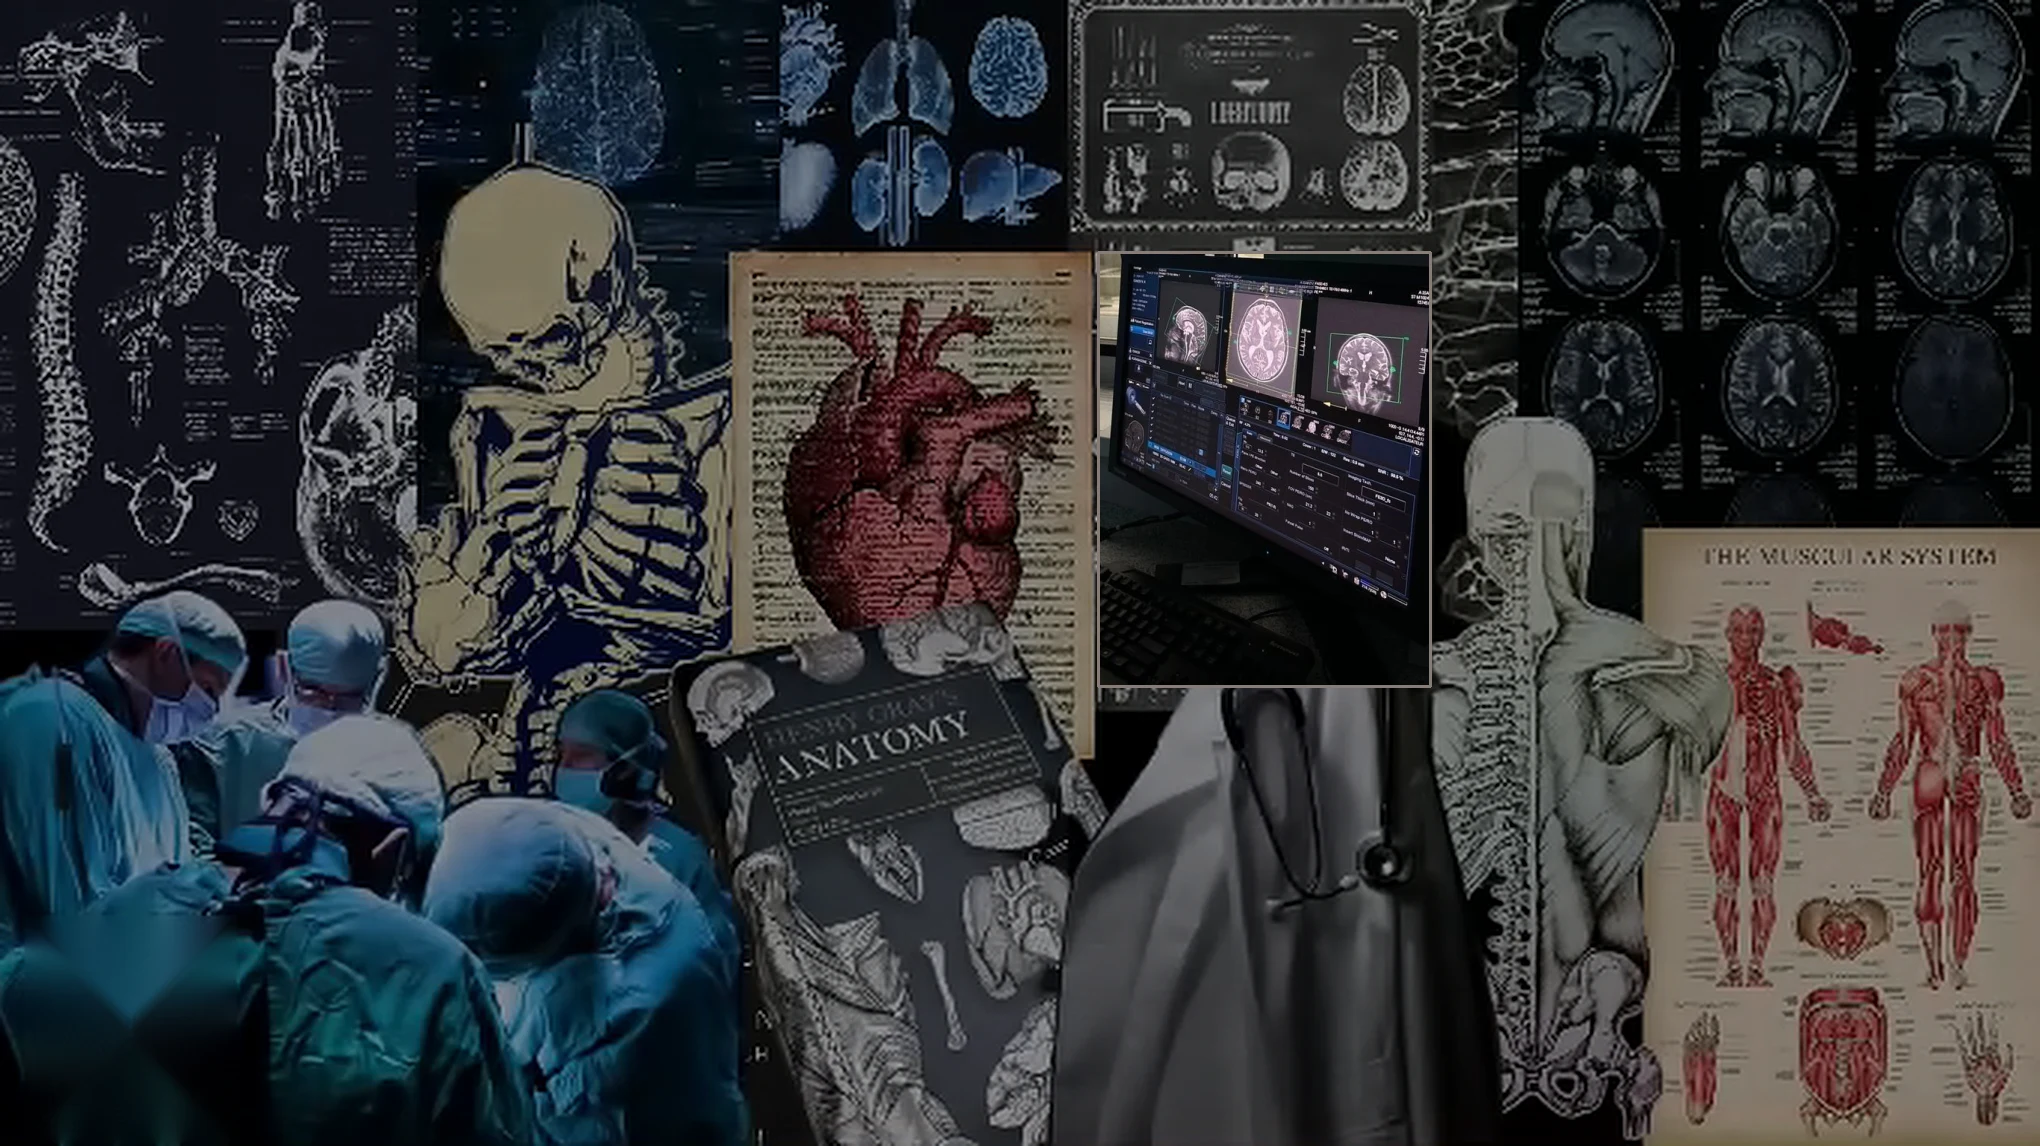
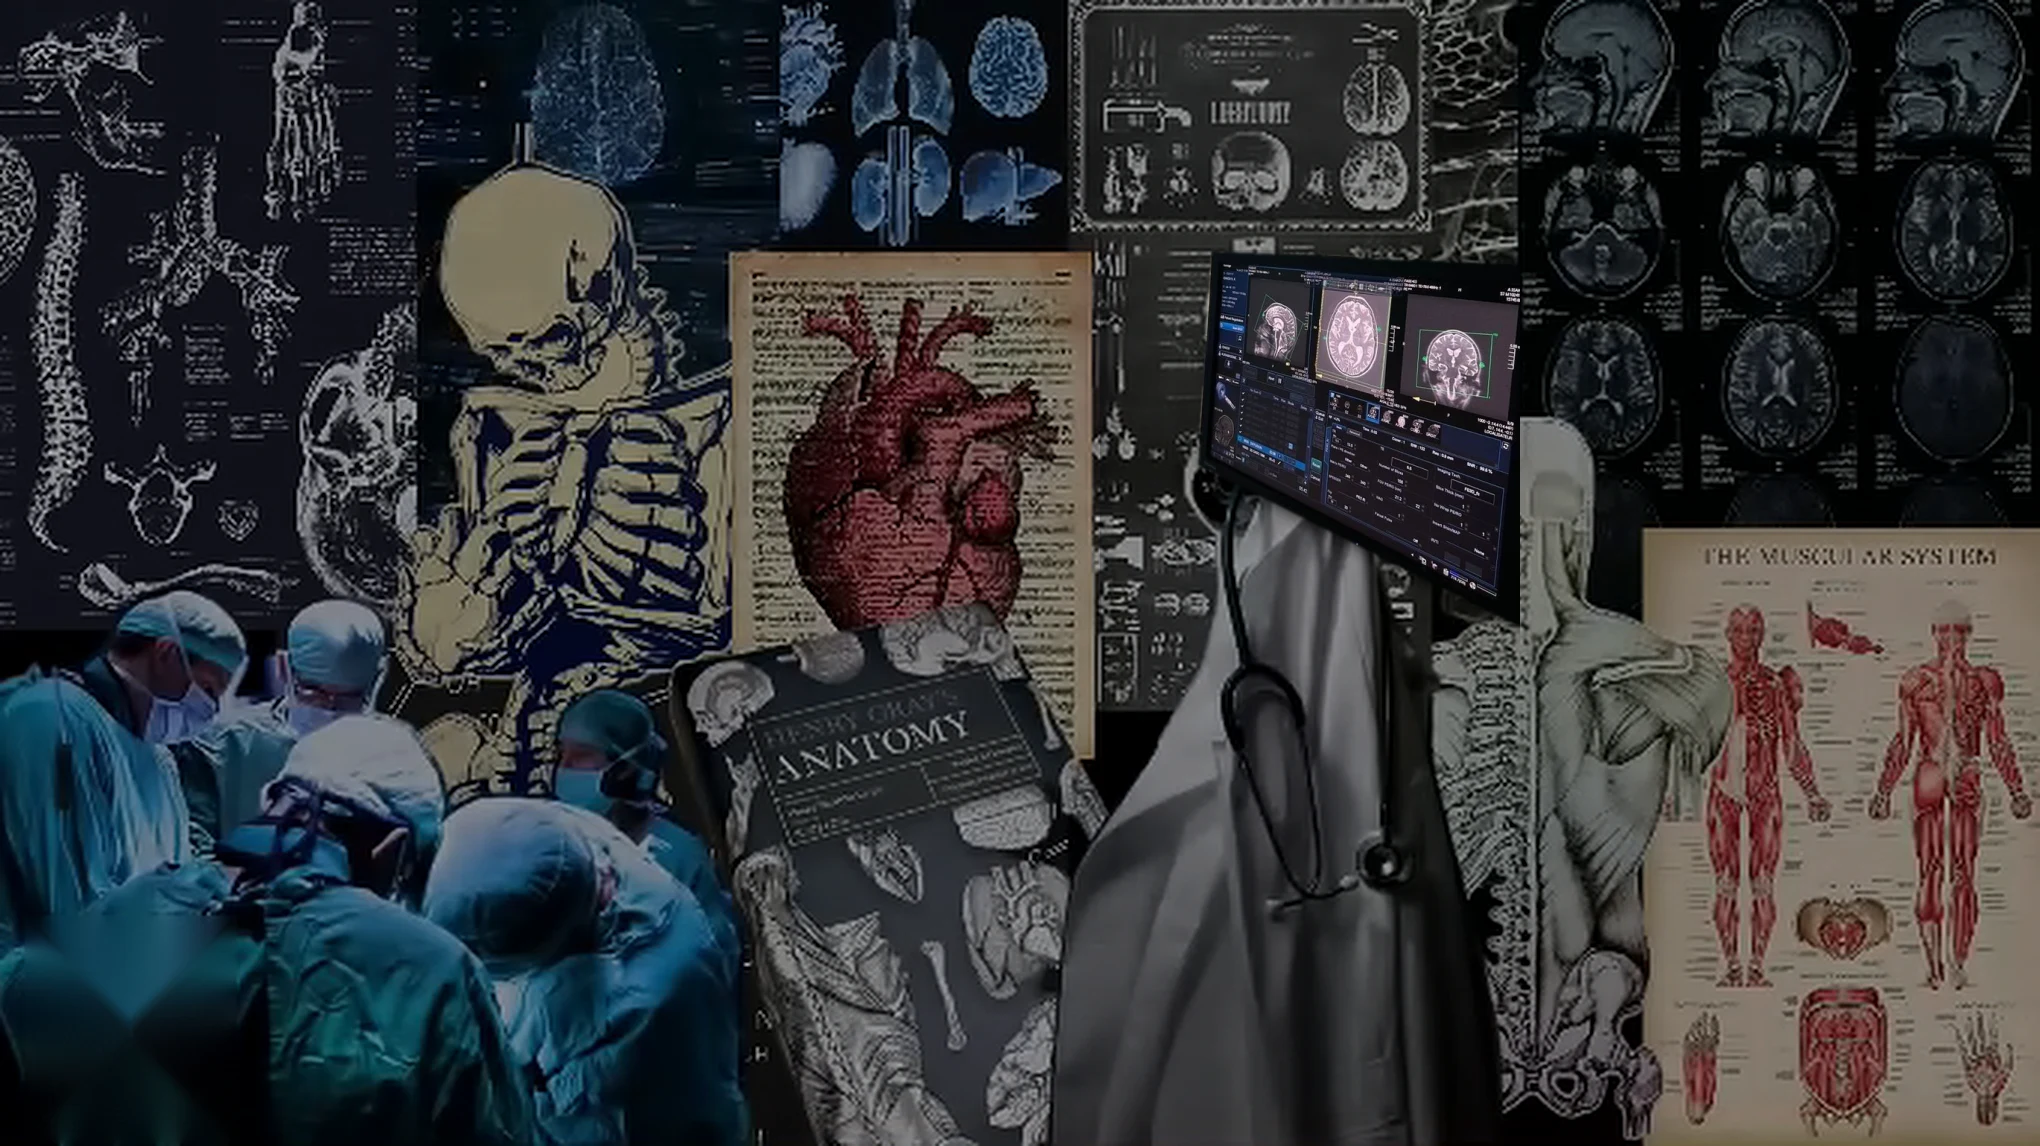
BIO collage: monitor as true cutout blended into the setup
Claude-Session: https://claude.ai/code/session_01BvLFcroQbFc8VUSf4YjDBE

Changed region(s): [[0.525, 0.2138, 0.7721, 0.6108]]

diff --git a/web/components/biocollage/BioCollage.tsx b/web/components/biocollage/BioCollage.tsx
@@ -21,7 +21,7 @@ const REGIONS: [string, number[]][] = [
   ["heart", [243, 86, 366, 84, 366, 248, 243, 250]],
   ["book", [222, 250, 300, 215, 360, 228, 355, 340, 310, 382, 245, 382, 224, 300]],
   ["man", [490, 140, 530, 138, 562, 200, 572, 300, 548, 382, 498, 382, 478, 250]],
-  ["monitor", [366, 84, 477, 84, 477, 229, 366, 229]],
+  ["monitor", [403, 83, 506, 88, 506, 208, 399, 154]],
   ["doctor", [402, 148, 440, 150, 478, 230, 500, 382, 350, 382, 360, 290, 395, 190]],
 ];
 const SRC = "/bio/collage.webp";
